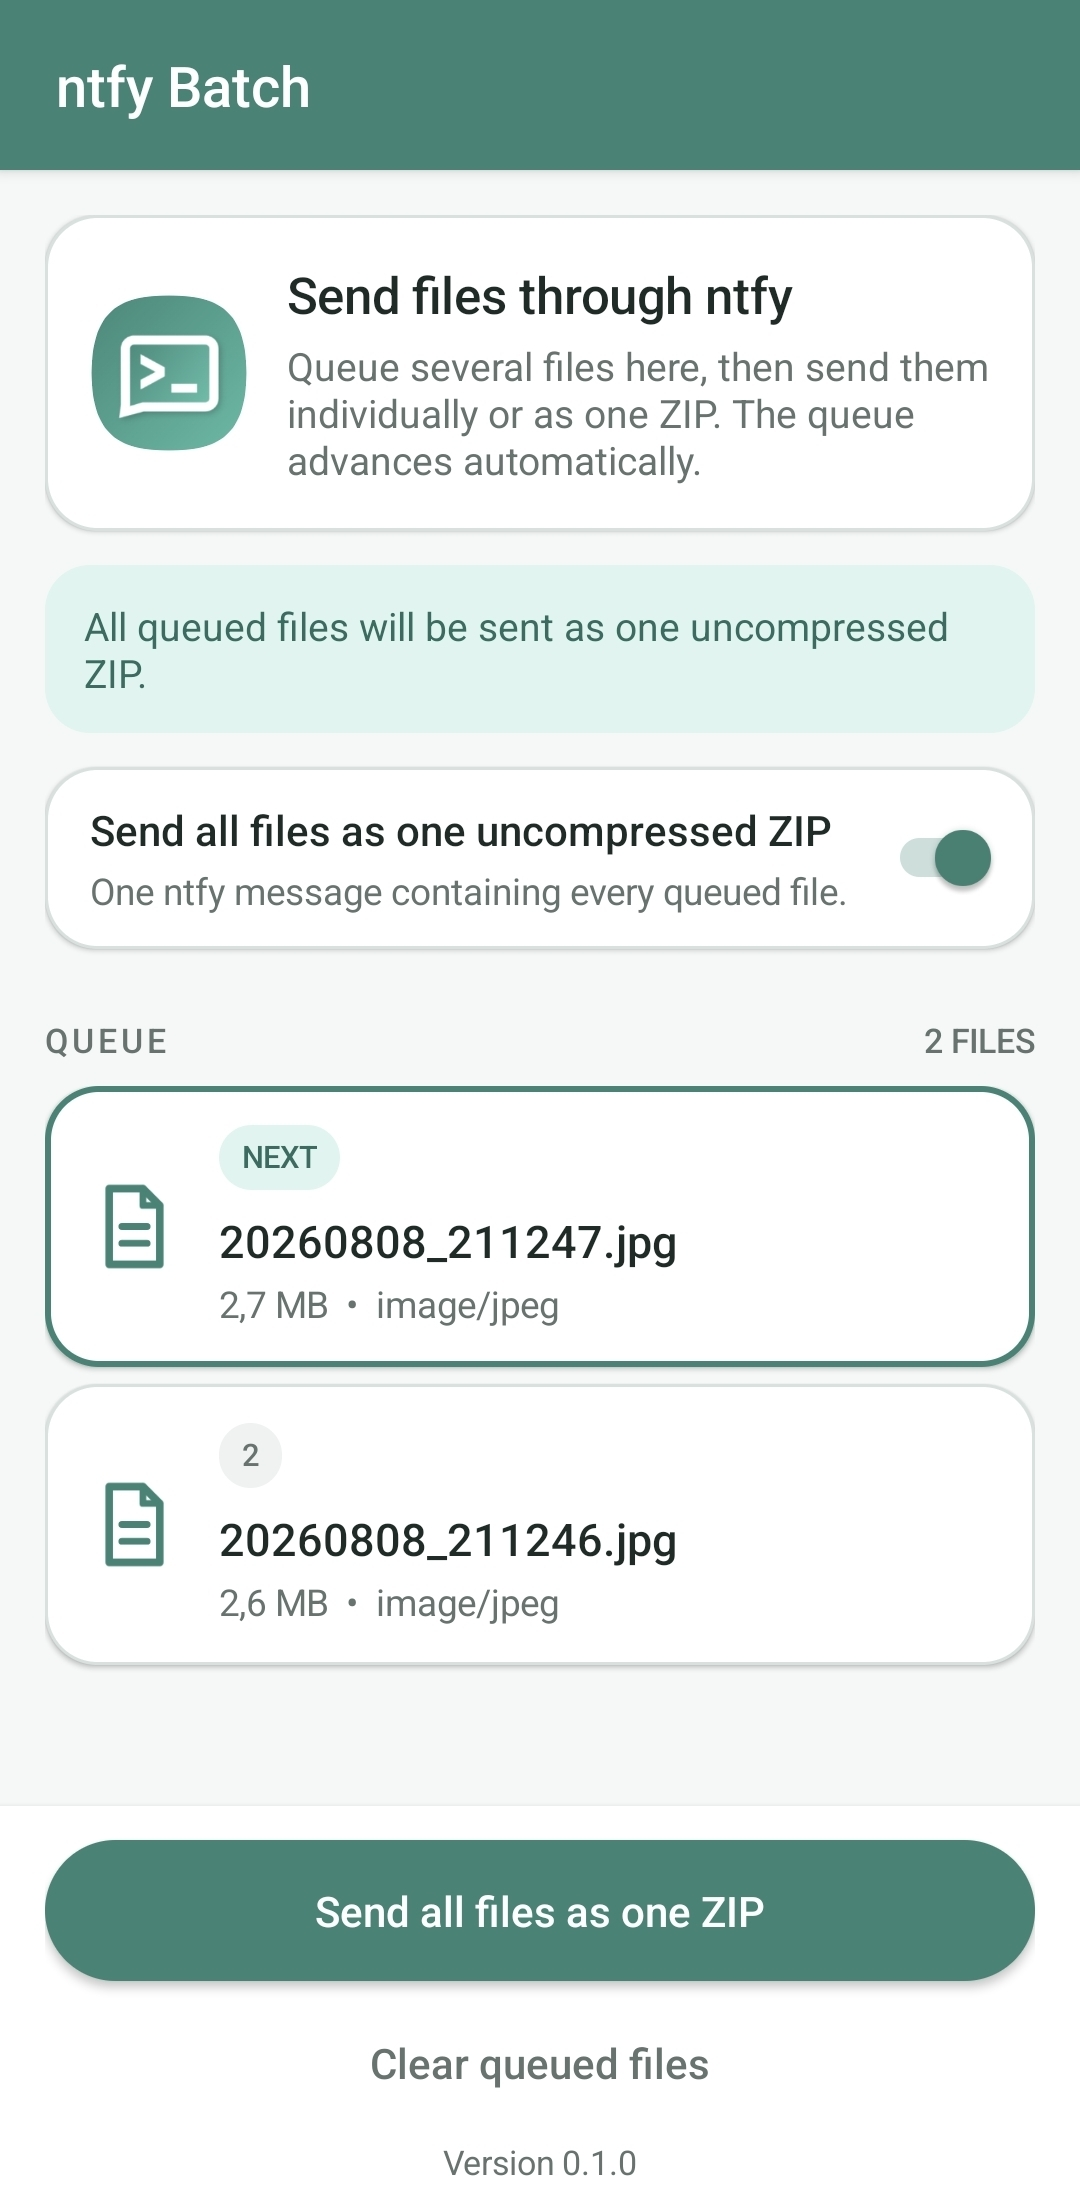
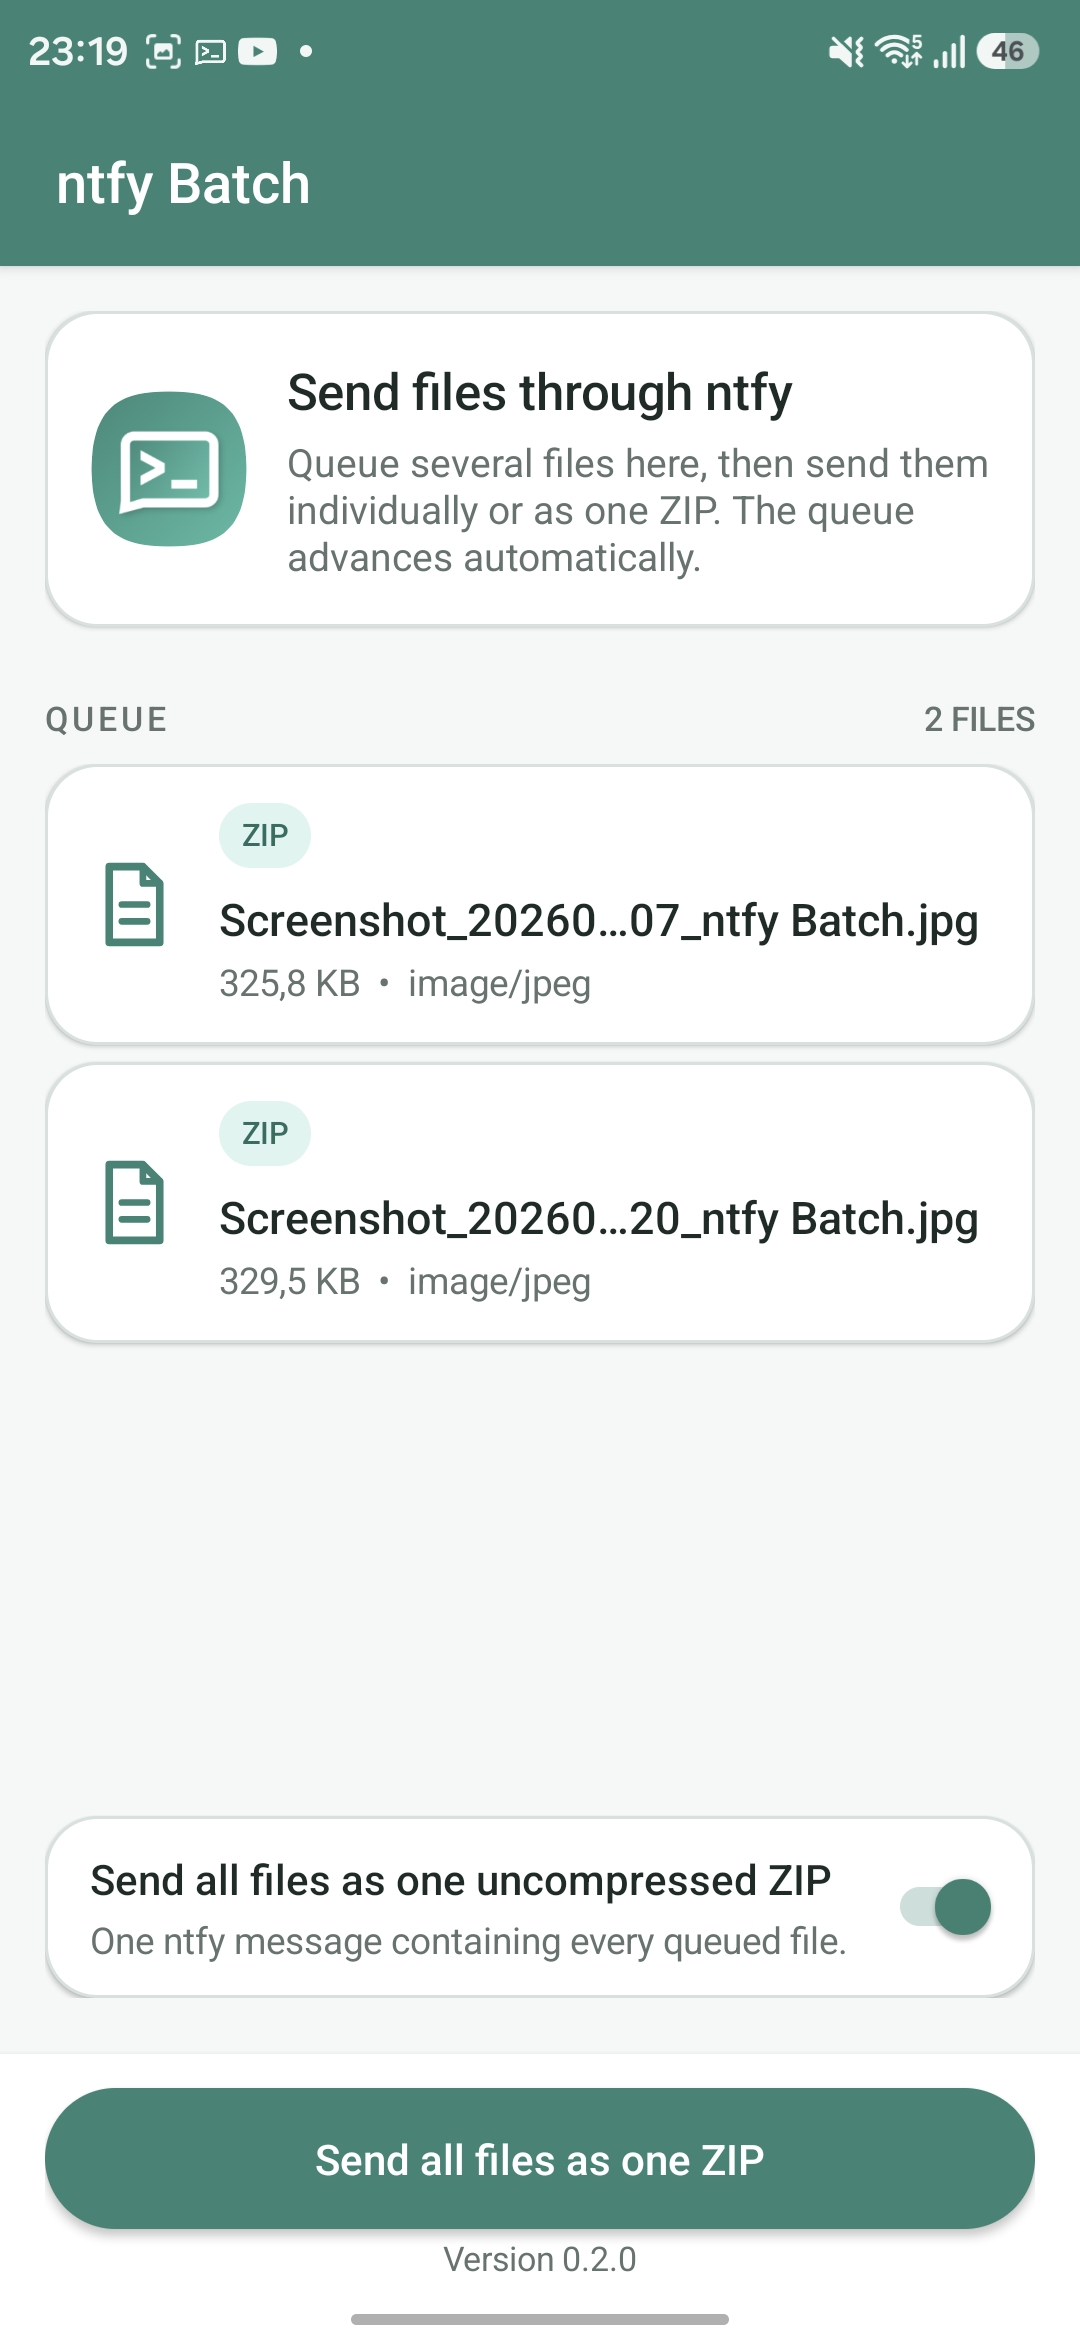
Clarify ZIP queue badges

diff --git a/app/src/main/java/de/theduffman85/ntfybatch/MainActivity.java b/app/src/main/java/de/theduffman85/ntfybatch/MainActivity.java
@@ -887,12 +887,13 @@ public class MainActivity extends Activity {
             emptyText.setText("No files queued yet. Use Android’s Share action to add one or more files.");
             queueContainer.addView(emptyState, fullWidthParams());
         } else {
+            boolean zipMode = isZipModeEnabled();
             for (int index = 0; index < queue.size(); index++) {
                 QueuedFile file = queue.get(index);
                 LinearLayout row = new LinearLayout(this);
                 row.setGravity(Gravity.CENTER_VERTICAL);
                 row.setPadding(dp(14), dp(14), dp(14), dp(14));
-                row.setBackground(queueCardBackground(index == 0));
+                row.setBackground(queueCardBackground(!zipMode && index == 0));
                 row.setElevation(dp(1));
 
                 ImageView fileIcon = new ImageView(this);
@@ -907,13 +908,15 @@ public class MainActivity extends Activity {
 
                 LinearLayout labelRow = new LinearLayout(this);
                 labelRow.setGravity(Gravity.CENTER_VERTICAL);
-                TextView badge = makeText(index == 0 ? "NEXT" : "" + (index + 1), 11,
-                        index == 0 ? colorAccent : colorMuted);
+                boolean nextFile = !zipMode && index == 0;
+                TextView badge = makeText(zipMode ? "ZIP"
+                                : nextFile ? "NEXT" : "" + (index + 1), 11,
+                        zipMode || nextFile ? colorAccent : colorMuted);
                 badge.setTypeface(Typeface.create("sans-serif-medium", Typeface.NORMAL));
                 badge.setGravity(Gravity.CENTER);
                 badge.setIncludeFontPadding(false);
                 badge.setPadding(dp(8), dp(5), dp(8), dp(5));
-                badge.setBackgroundResource(index == 0
+                badge.setBackgroundResource(zipMode || nextFile
                         ? R.drawable.bg_chip_primary : R.drawable.bg_chip_neutral);
                 labelRow.addView(badge, wrapParams());
                 details.addView(labelRow, wrapParams());
